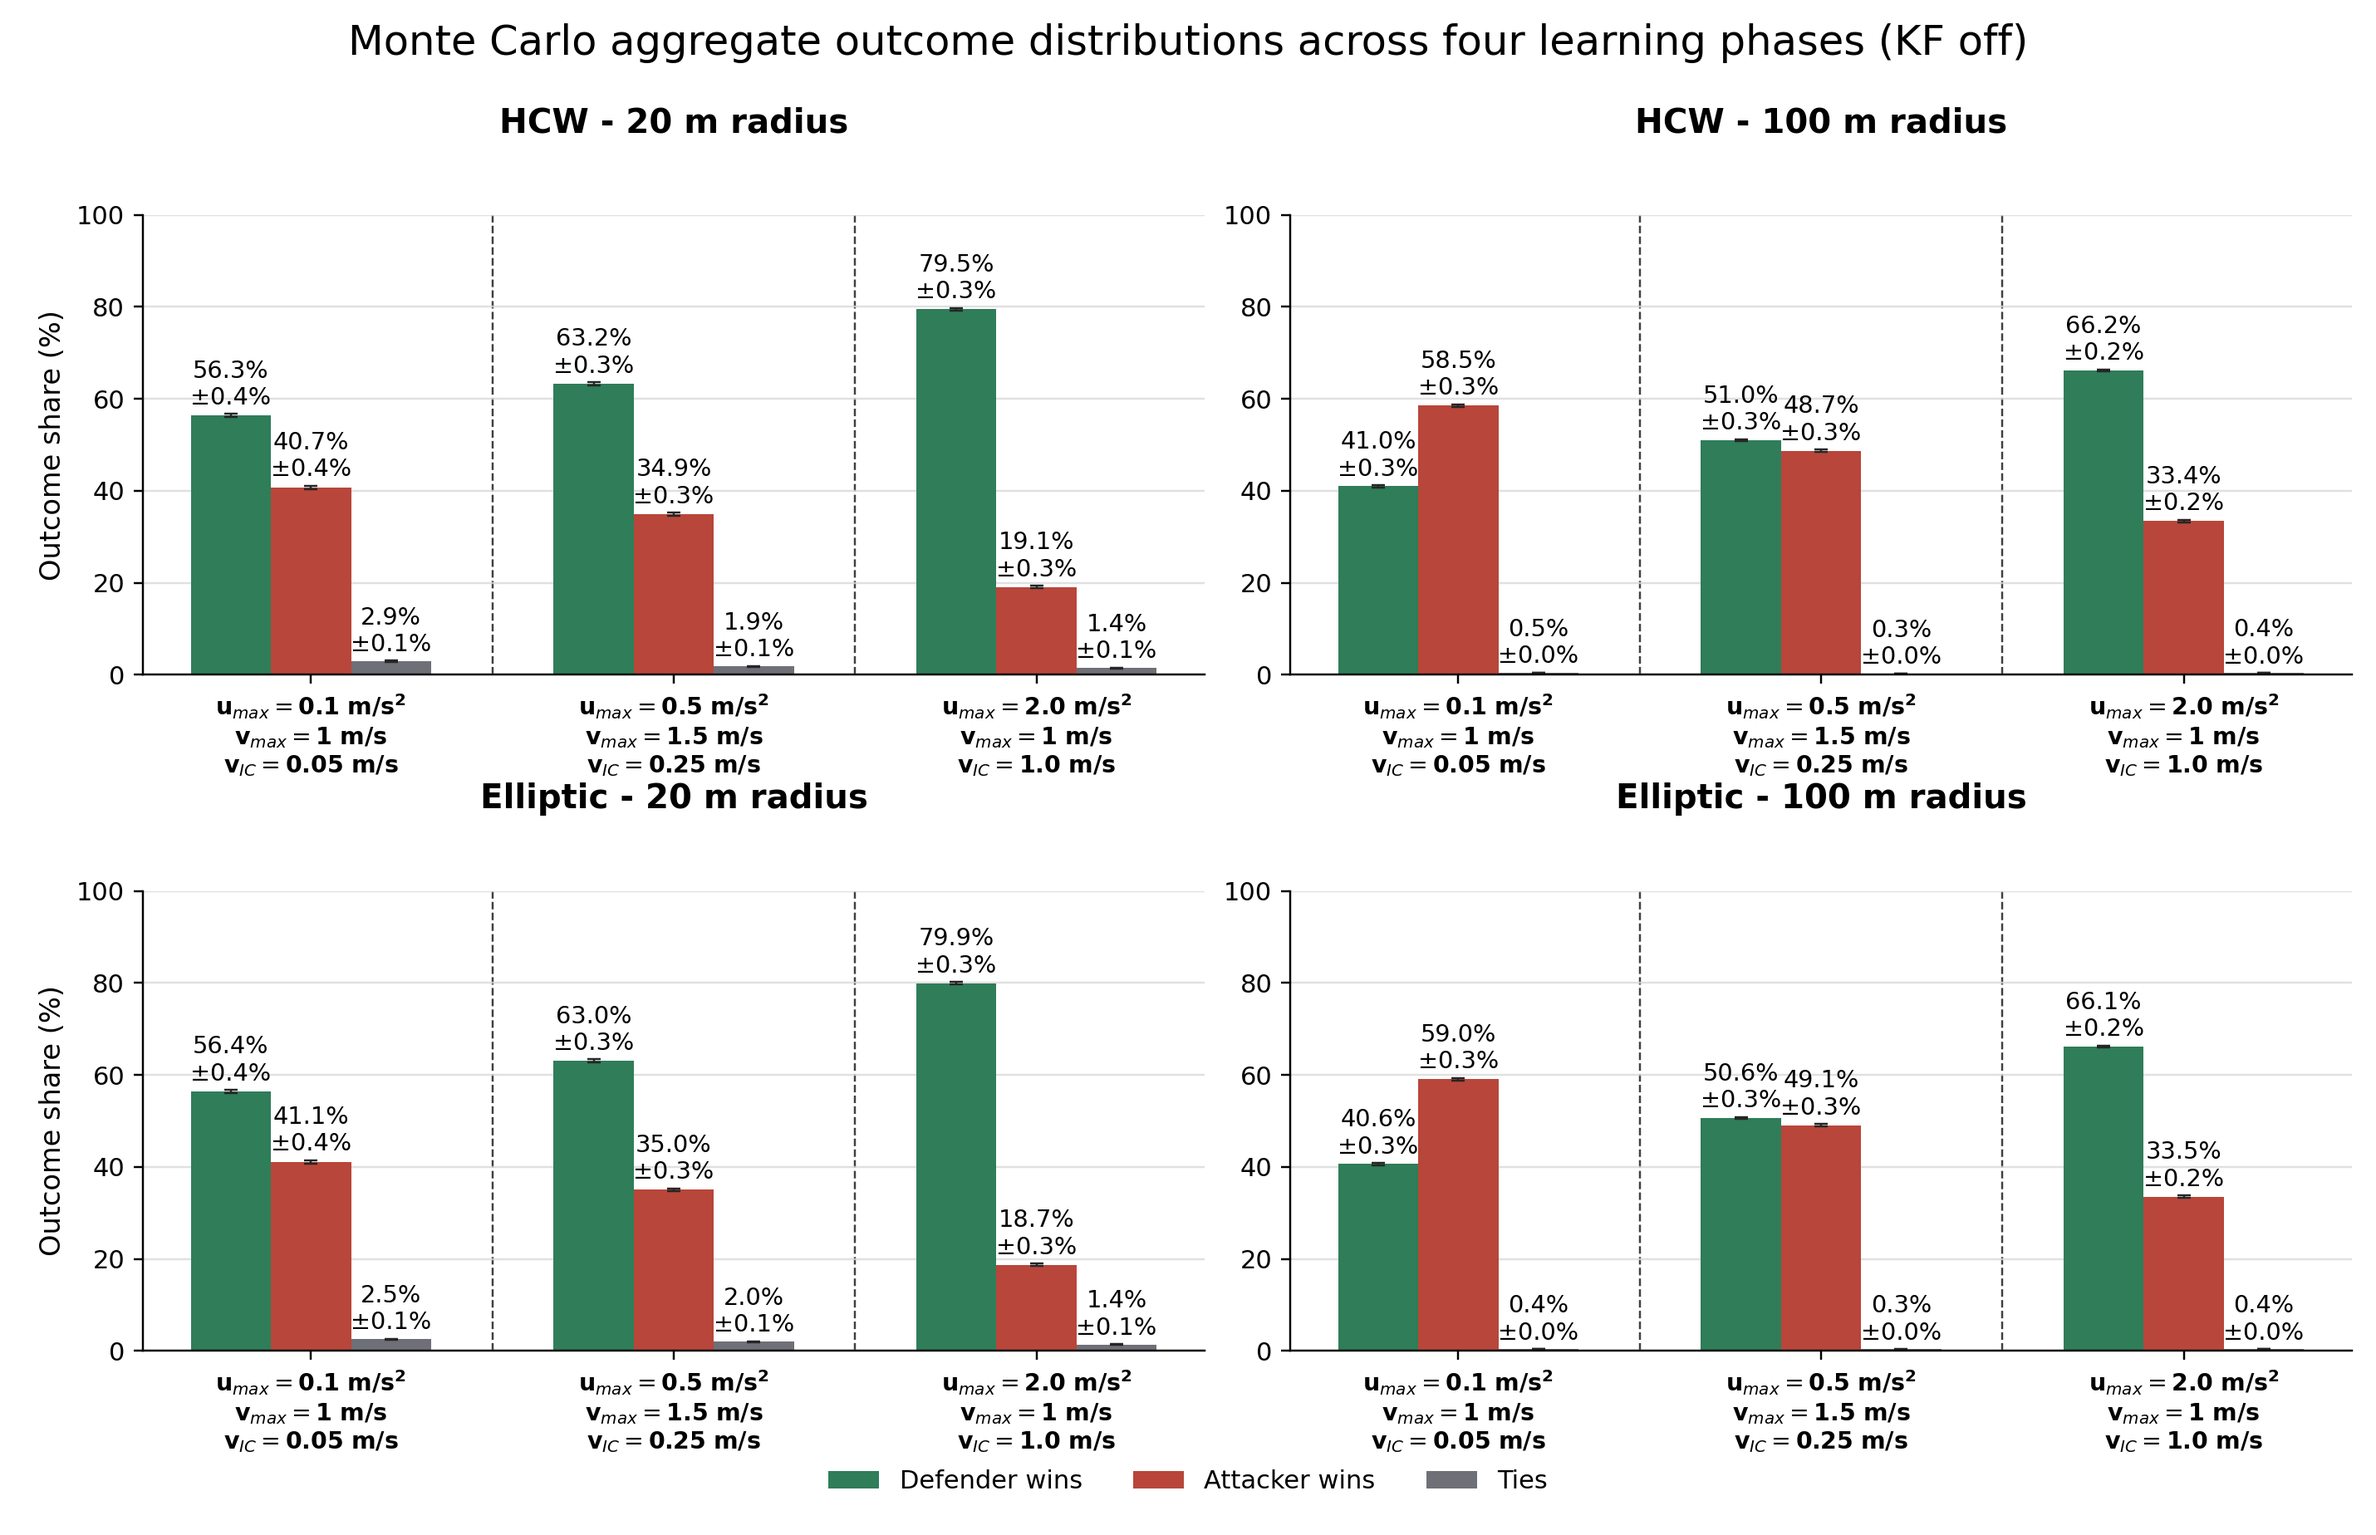
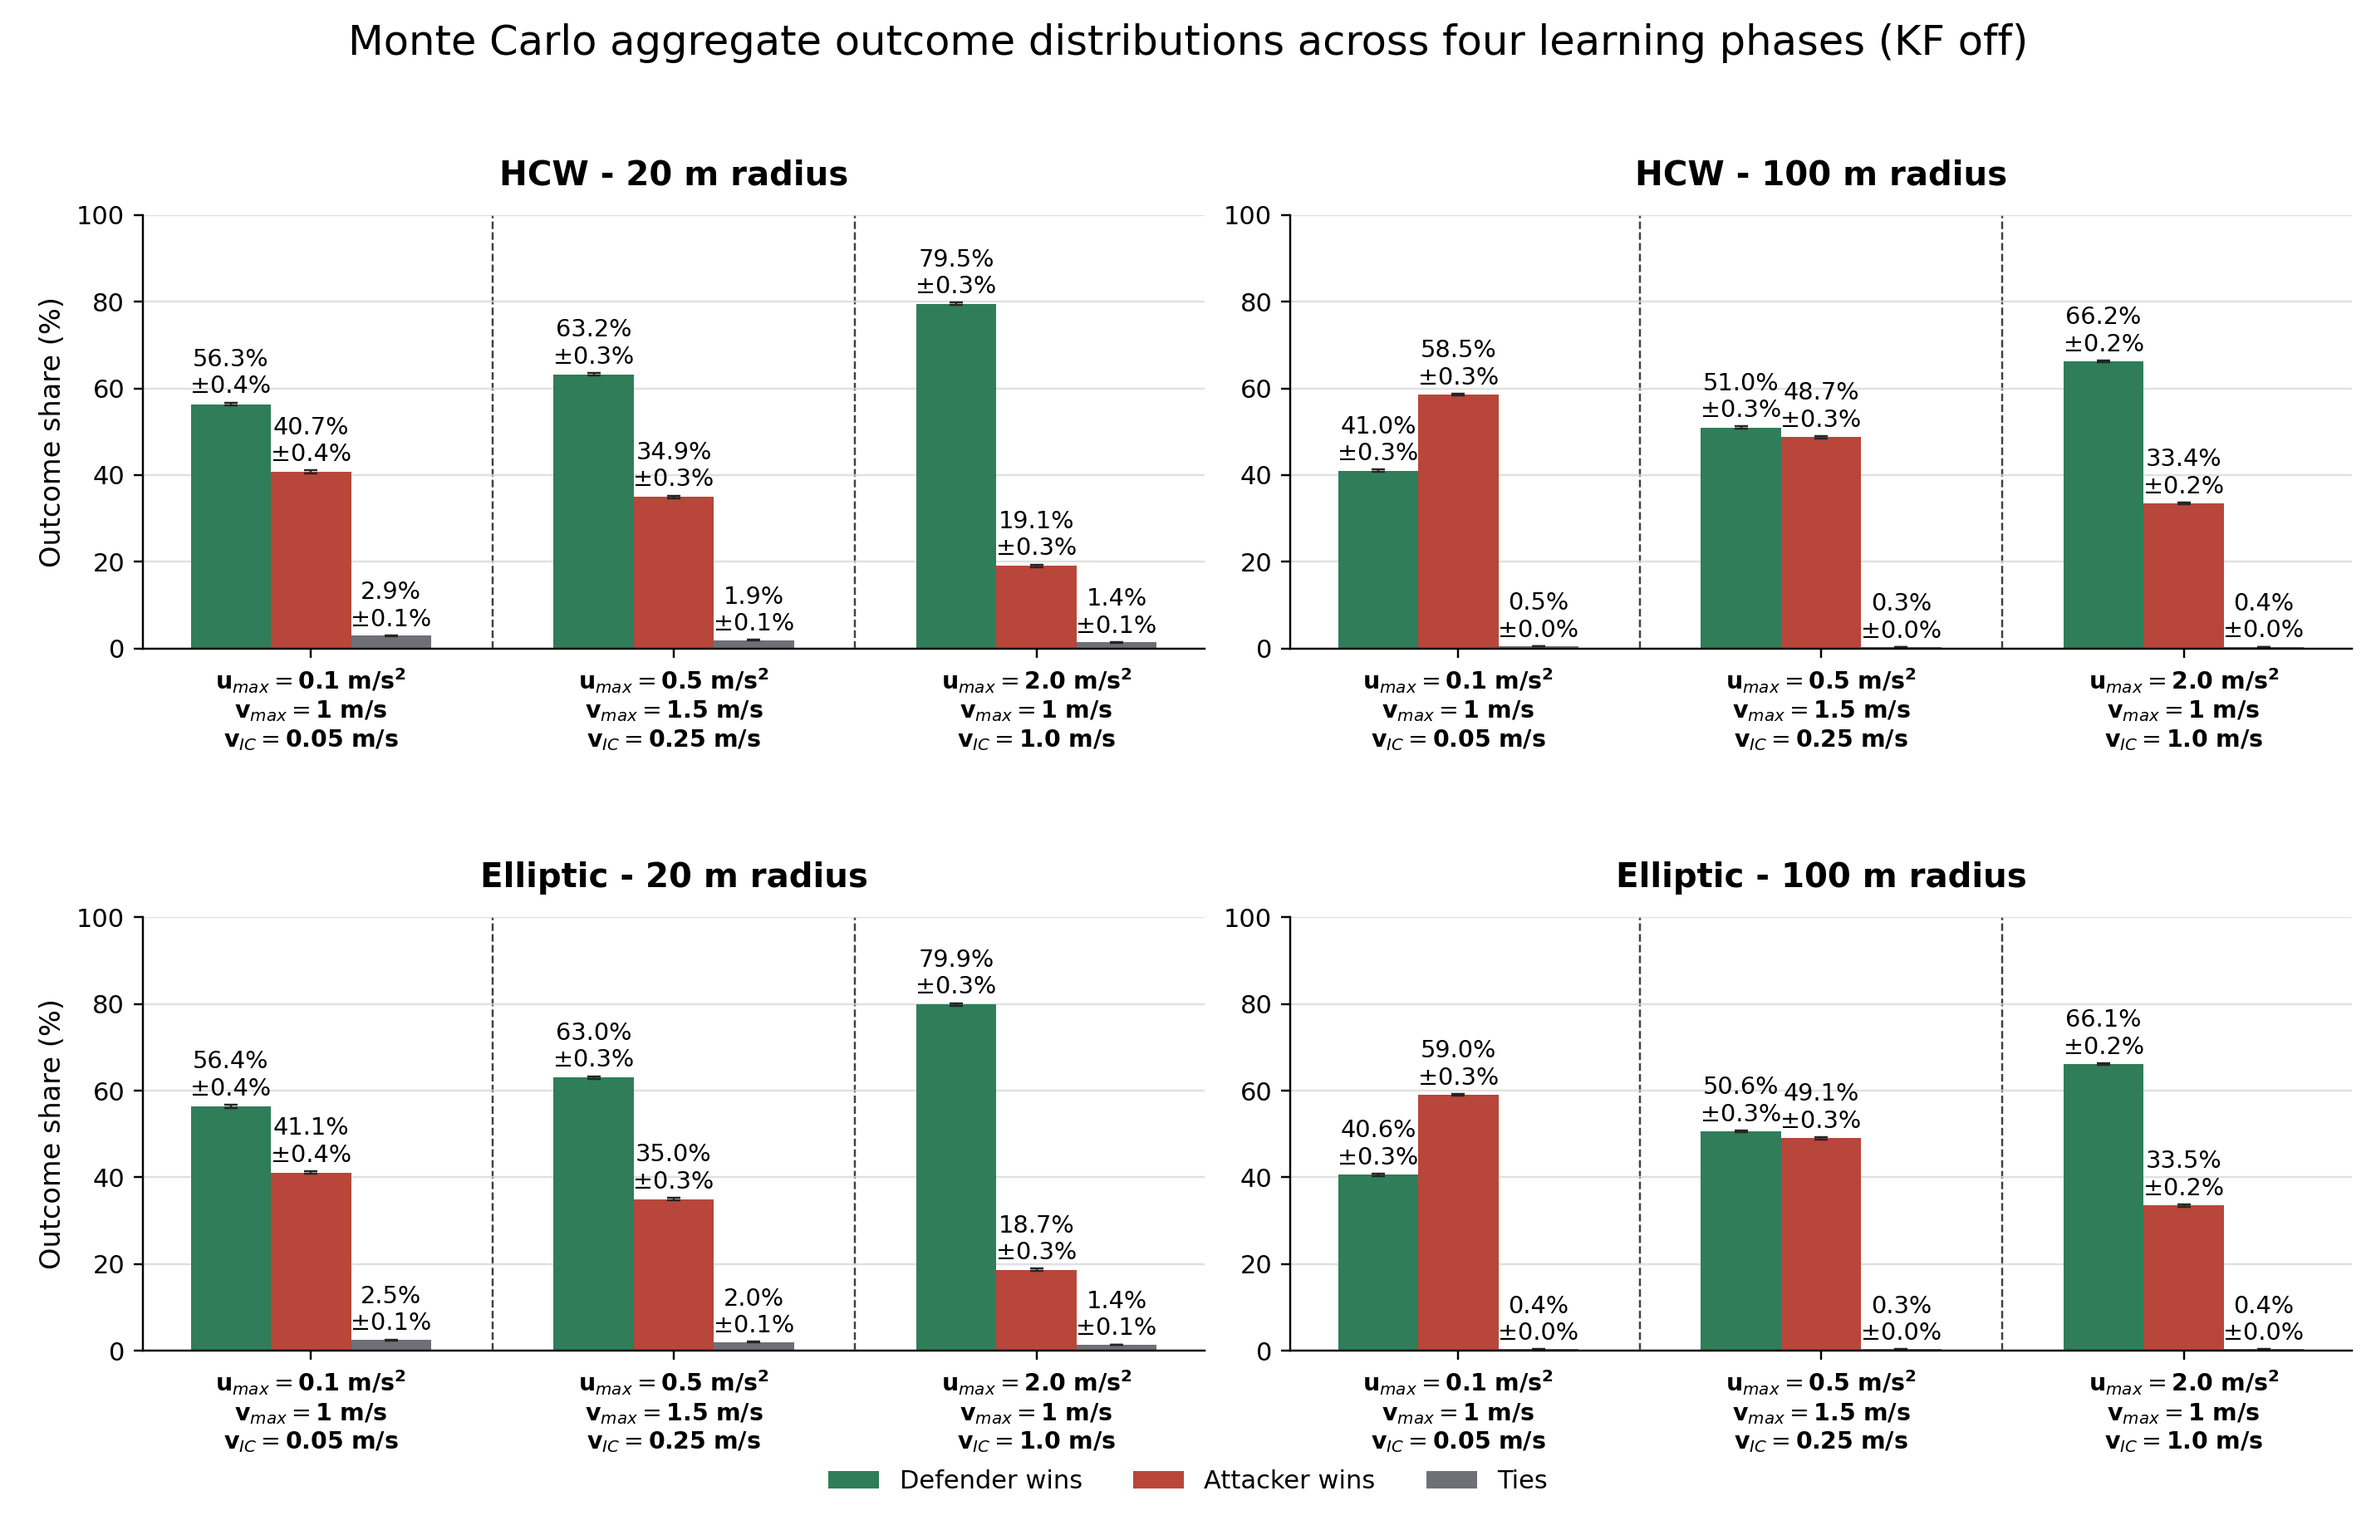
More minor changes

diff --git a/LaTeX_Tables/generate_outcome_distribution_histograms.py b/LaTeX_Tables/generate_outcome_distribution_histograms.py
@@ -269,8 +269,8 @@ def add_step_time_table(ax, stats: MetricStats) -> None:
         cell.set_facecolor("#fbfbfb")
 
 
-def set_case_title(ax, case_label: str) -> None:
-    ax.set_title(case_label, fontsize=13.2, fontweight="bold", y=1.18, pad=0)
+def set_case_title(ax, case_label: str, *, y: float = 1.18, pad: float = 0) -> None:
+    ax.set_title(case_label, fontsize=13.2, fontweight="bold", y=y, pad=pad)
 
 
 def add_group_separators(ax, x_positions: Iterable[float]) -> None:
@@ -416,7 +416,7 @@ def plot_histogram(repo_root: Path, out_dir: Path, use_kf: bool) -> Path:
                     color="#555555",
                 )
 
-        set_case_title(ax, case_label)
+        set_case_title(ax, case_label, y=1.035, pad=6)
         ax.set_xticks(x)
         ax.set_xticklabels([label for _, label in POLICIES], fontsize=9.3)
         for tick in ax.get_xticklabels():
@@ -449,7 +449,7 @@ def plot_histogram(repo_root: Path, out_dir: Path, use_kf: bool) -> Path:
         right=0.99,
         top=0.86,
         bottom=0.12,
-        hspace=0.47,
+        hspace=0.62,
         wspace=0.08,
     )
     fig.savefig(output_path, dpi=220)
